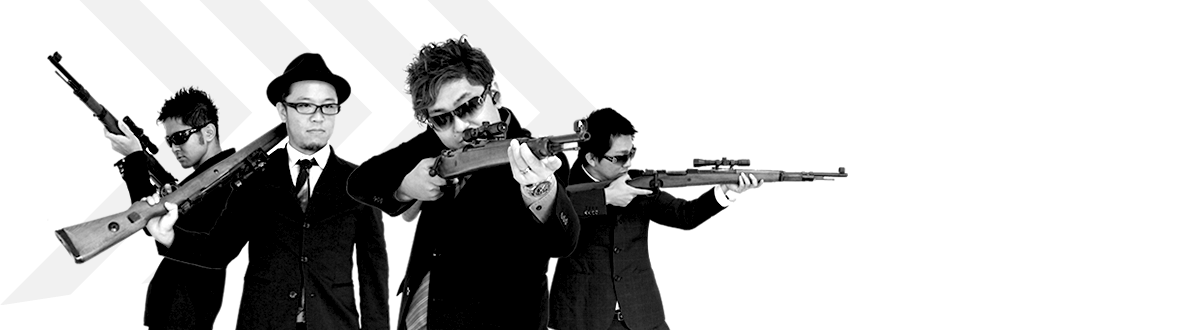
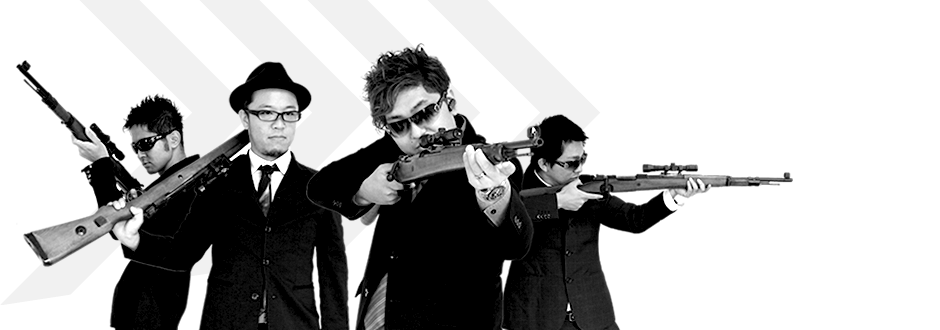
iPhoneでメインビジュアルが切れてしまう現象なおしました。 その他ちびちび修正しました。

Changed region(s): [[0.0, 0.0909, 0.8638, 1.0], [0.0926, 0.8788, 0.1234, 1.0]]

diff --git a/_site/css/base/structure.css b/_site/css/base/structure.css
@@ -51,7 +51,7 @@ header, #container, footer  {
 	width: 100%;
 	text-align: center;
 }
-.header_inr, .container_inr, .footer_inr {
+.header_inr, #head_visual, .container_inr, .footer_inr {
 	width: 960px;
 	text-align: left;
 	margin: 0 auto;
@@ -63,9 +63,10 @@ header {
 }
 /**/
 #head_visual {
+	width: 980px;
 	height: 330px;
 	background-repeat: no-repeat;
-	background-position: center;
+	background-position: 0px;
 }
 /**/
 .header_inr {
@@ -79,7 +80,7 @@ header p.logo {
 header p.message {
 	position: absolute;
 	top: 240px;
-	left: -30px;
+	left: 15px;
 }
 /**/
 #container {

diff --git a/index.html b/index.html
@@ -135,7 +135,7 @@ jQuery(function($) {
 						<div class="member_detail clearfix">
 							<p class="photo"><a href="https://twitter.com/aguuu" target="_blank"><img src="_site/image/contents/icon_aguuu.png" width="60" height="60"></a></p>
 							<ul class="text">
-								<li><a href="https://twitter.com/aguuu" target="_blank">tochi</a></li>
+								<li><a href="https://twitter.com/aguuu" target="_blank">aguuu</a></li>
 								<li>iPhone / Objective-C / Ruby on Rails</li>
 							</ul>
 						</div>
